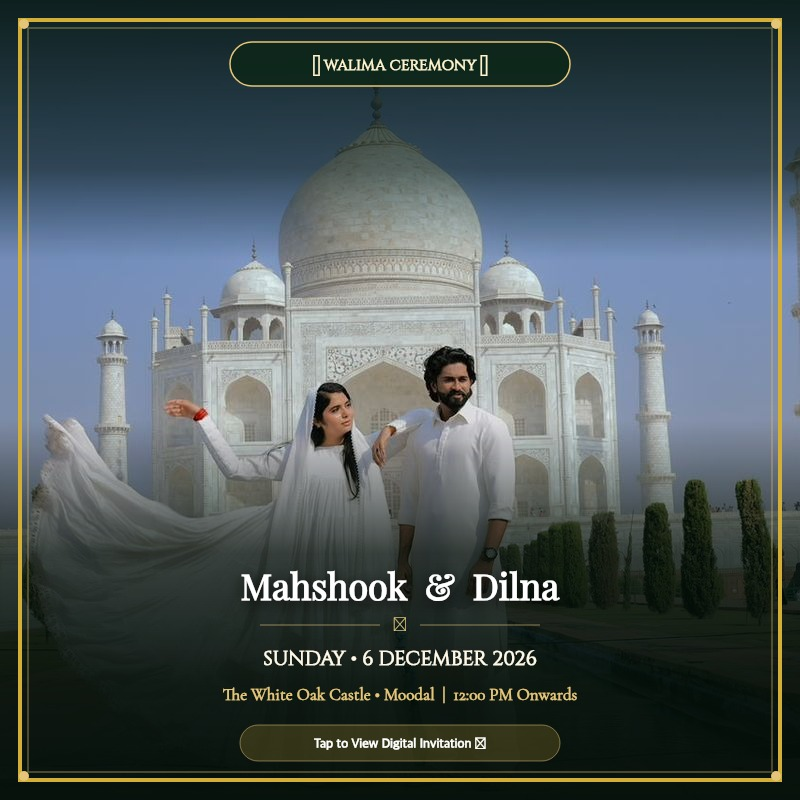
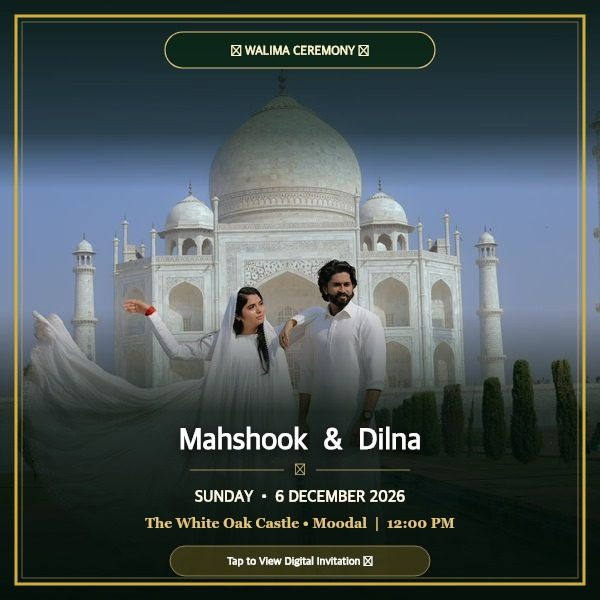
fix: optimize WhatsApp thumbnail to 600x600 49KB baseline JPEG with clean og tags and vercel caching

Changed region(s): [[0.0, 0.0, 0.99, 0.99]]

diff --git a/index.html b/index.html
@@ -1,5 +1,5 @@
 <!DOCTYPE html>
-<html lang="en">
+<html lang="en" prefix="og: https://ogp.me/ns#">
 <head>
   <meta charset="UTF-8" />
   <meta name="viewport" content="width=device-width, initial-scale=1.0, viewport-fit=cover" />
@@ -7,33 +7,32 @@
   <title>Walima Ceremony | Mahshook &amp; Dilna</title>
   <meta name="description" content="Mr. Azeez &amp; Mrs. Thahira Azeez cordially invite you to the Walima ceremony of their son Mahshook with Dilna on Sunday, 6th December 2026 at The White Oak Castle, Moodal from 12:00 PM onwards." />
   
-  <!-- Primary OpenGraph & WhatsApp Meta Tags (Absolute URLs for WhatsApp Preview) -->
+  <!-- Primary OpenGraph & WhatsApp Meta Tags (Dedicated 600x600 <50KB Image for WhatsApp) -->
+  <meta property="og:type" content="website" />
   <meta property="og:title" content="Walima Ceremony | Mahshook &amp; Dilna" />
   <meta property="og:description" content="Sunday, 6 December 2026 • 12:00 PM Onwards • The White Oak Castle, Moodal. ✦ Tap to open royal digital invitation &amp; Taj Mahal gallery" />
   <meta property="og:url" content="https://mahshookdilna.vercel.app/" />
-  <meta property="og:type" content="website" />
   <meta property="og:site_name" content="Mahshook &amp; Dilna Walima Ceremony" />
   
-  <!-- WhatsApp Mobile Chat Square Thumbnail (High-Quality 800x800) -->
-  <meta property="og:image" content="https://mahshookdilna.vercel.app/thumb.jpg?v=201.0" />
-  <meta property="og:image:secure_url" content="https://mahshookdilna.vercel.app/thumb.jpg?v=201.0" />
+  <!-- WhatsApp Direct Thumbnail Tags (No Query String, Strictly 600x600, Baseline JPEG) -->
+  <meta property="og:image" content="https://mahshookdilna.vercel.app/thumb.jpg" />
+  <meta property="og:image:url" content="https://mahshookdilna.vercel.app/thumb.jpg" />
+  <meta property="og:image:secure_url" content="https://mahshookdilna.vercel.app/thumb.jpg" />
   <meta property="og:image:type" content="image/jpeg" />
-  <meta property="og:image:width" content="800" />
-  <meta property="og:image:height" content="800" />
+  <meta property="og:image:width" content="600" />
+  <meta property="og:image:height" content="600" />
   <meta property="og:image:alt" content="Walima Ceremony: Mahshook &amp; Dilna at the Taj Mahal" />
 
-  <!-- Landscape Card for Desktop / Twitter / Link Previews -->
-  <meta property="og:image" content="https://mahshookdilna.vercel.app/og-image.jpg?v=201.0" />
-  <meta property="og:image:secure_url" content="https://mahshookdilna.vercel.app/og-image.jpg?v=201.0" />
-  <meta property="og:image:type" content="image/jpeg" />
-  <meta property="og:image:width" content="1200" />
-  <meta property="og:image:height" content="630" />
+  <!-- Universal Fallback Tags for WhatsApp & Legacy Crawlers -->
+  <link rel="image_src" href="https://mahshookdilna.vercel.app/thumb.jpg" />
+  <meta itemprop="image" content="https://mahshookdilna.vercel.app/thumb.jpg" />
+  <meta name="thumbnail" content="https://mahshookdilna.vercel.app/thumb.jpg" />
   
-  <!-- Twitter Card -->
+  <!-- Twitter Card (Uses Landscape 1200x630 Card) -->
   <meta name="twitter:card" content="summary_large_image" />
   <meta name="twitter:title" content="Walima Ceremony | Mahshook &amp; Dilna" />
   <meta name="twitter:description" content="Sunday, 6 December 2026 • The White Oak Castle, Moodal. Tap to unveil the digital invitation." />
-  <meta name="twitter:image" content="https://mahshookdilna.vercel.app/og-image.jpg?v=201.0" />
+  <meta name="twitter:image" content="https://mahshookdilna.vercel.app/og-image.jpg" />
 
   <!-- Theme Color for Mobile Browsers -->
   <meta name="theme-color" content="#F8F5EE" />

diff --git a/js/main.js b/js/main.js
@@ -136,7 +136,8 @@ function setupActionButtons() {
   // Share on WhatsApp
   if (shareWhatsappBtn) {
     shareWhatsappBtn.addEventListener('click', () => {
-      const shareUrl = window.location.href;
+      const isLocal = window.location.hostname === 'localhost' || window.location.hostname === '127.0.0.1';
+      const shareUrl = isLocal ? 'https://mahshookdilna.vercel.app/' : window.location.href;
       const shareText = encodeURIComponent(
         `✨ Wedding Invitation ✨\n\n` +
         `Mr. Azeez & Mrs. Thahira Azeez cordially invite you to the Walima ceremony of their son\n` +
